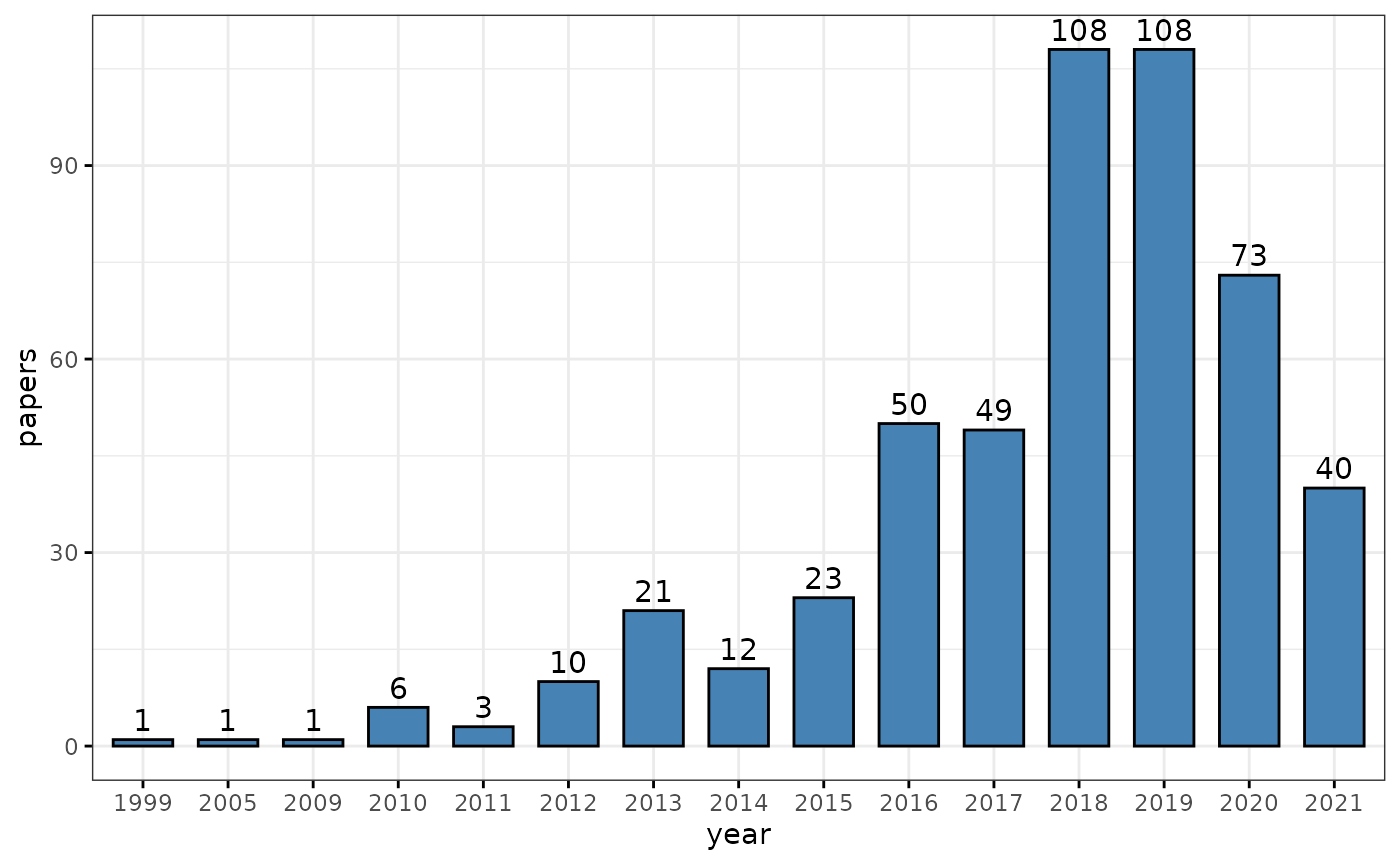
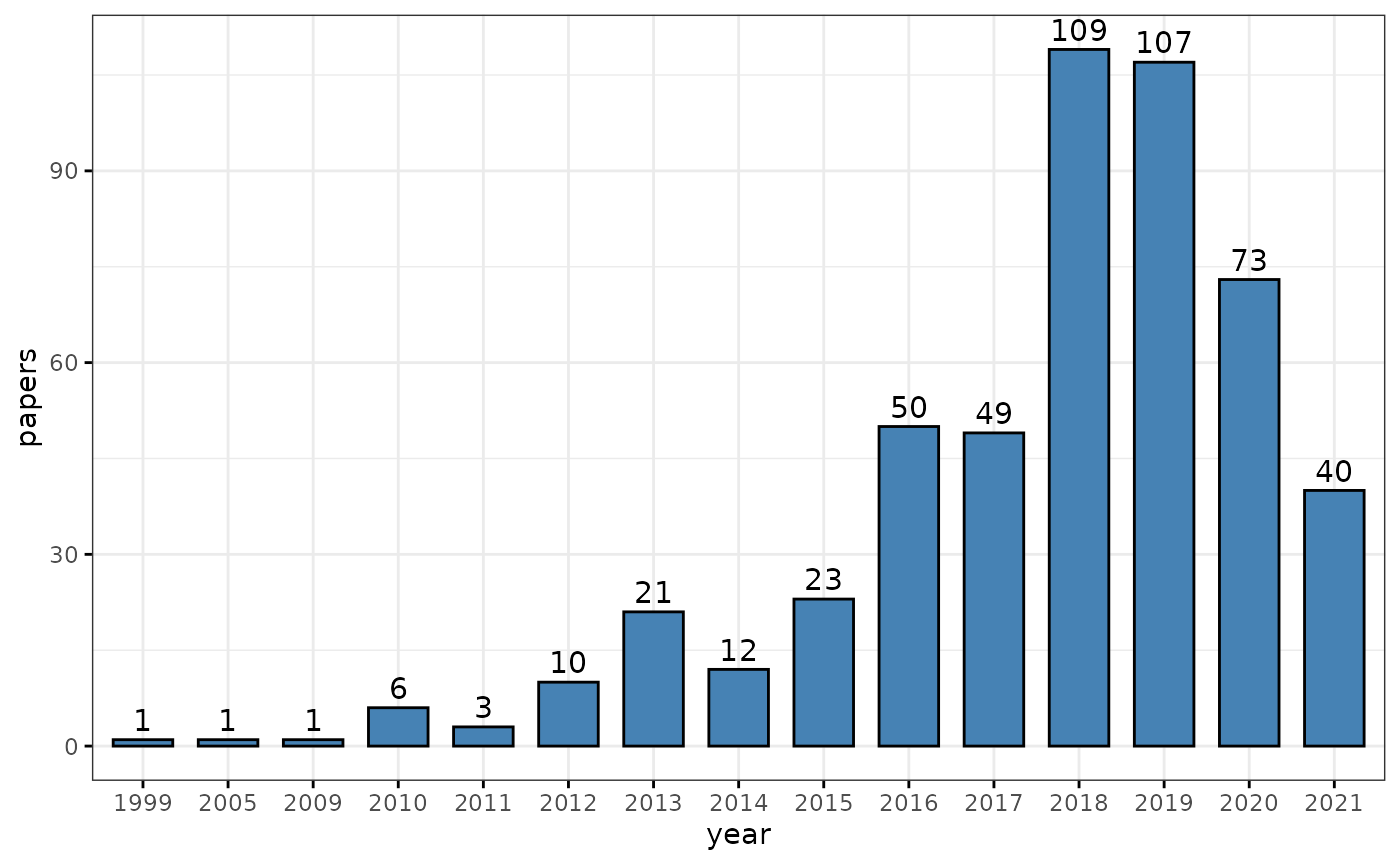
Deploying to gh-pages from  @ 07abf895835f37a3577330366b99f1d6fca4c2dd 🚀

diff --git a/articles/BugSigDBStats.html b/articles/BugSigDBStats.html
@@ -63,7 +63,7 @@
     <div class="page-header toc-ignore">
       <h1 data-toc-skip></h1>
             
-            <h4 class="date">September 4, 2021</h4>
+            <h4 class="date">September 5, 2021</h4>
       
       <small class="dont-index">Source: <a href="https://github.com/waldronlab/BugSigDBStats/blob/master/vignettes/BugSigDBStats.Rmd"><code>vignettes/BugSigDBStats.Rmd</code></a></small>
       <div class="hidden name"><code>BugSigDBStats.Rmd</code></div>
@@ -86,7 +86,7 @@
 <p>Get bulk export from bugsigdb.org:</p>
 <div class="sourceCode" id="cb2"><pre class="downlit sourceCode r">
 <code class="sourceCode R"><span class="va">full.dat</span> <span class="op">&lt;-</span> <span class="fu">bugsigdbr</span><span class="fu">::</span><span class="fu"><a href="https://rdrr.io/pkg/bugsigdbr/man/importBugSigDB.html">importBugSigDB</a></span><span class="op">(</span><span class="op">)</span></code></pre></div>
-<pre><code>## Using cached version from 2021-09-04 05:06:21</code></pre>
+<pre><code>## Using cached version from 2021-09-05 05:06:36</code></pre>
 <div class="sourceCode" id="cb4"><pre class="downlit sourceCode r">
 <code class="sourceCode R"><span class="fu"><a href="https://rdrr.io/r/base/dim.html">dim</a></span><span class="op">(</span><span class="va">full.dat</span><span class="op">)</span></code></pre></div>
 <pre><code>## [1] 2073   45</code></pre>
@@ -161,7 +161,7 @@
 <div class="sourceCode" id="cb17"><pre class="downlit sourceCode r">
 <code class="sourceCode R"><span class="fu"><a href="https://rdrr.io/r/base/sets.html">setdiff</a></span><span class="op">(</span><span class="va">pmids</span>, <span class="fu"><a href="https://rdrr.io/r/base/unique.html">unique</a></span><span class="op">(</span><span class="va">dat</span><span class="op">[</span>,<span class="st">"PMID"</span><span class="op">]</span><span class="op">)</span><span class="op">)</span></code></pre></div>
 <pre><code>##  [1] 32295867 32937864 32415070 32728349 33903709 33851179 33833065 33603076
-##  [9] 31917273 22986438 30714619 32978483 31887116 30057153</code></pre>
+##  [9] 31917273 22986438 30714619 32978483 31887116 29617710</code></pre>
 <p>Progress over time:</p>
 <div class="sourceCode" id="cb19"><pre class="downlit sourceCode r">
 <code class="sourceCode R"><span class="va">dat</span><span class="op">[</span>,<span class="st">"Curated date"</span><span class="op">]</span> <span class="op">&lt;-</span> <span class="fu"><a href="https://rdrr.io/r/base/character.html">as.character</a></span><span class="op">(</span><span class="fu">lubridate</span><span class="fu">::</span><span class="fu"><a href="http://lubridate.tidyverse.org/reference/ymd.html">dmy</a></span><span class="op">(</span><span class="va">dat</span><span class="op">[</span>,<span class="st">"Curated date"</span><span class="op">]</span><span class="op">)</span><span class="op">)</span>
@@ -200,7 +200,7 @@
 ##    Fatima,LGeistlinger,Rimsha,WikiWorks743 
 ##                                          1 
 ##               Fatima,Lwaldron,WikiWorks743 
-##                                          3 
+##                                          4 
 ##                       Fatima,Madhubani Dey 
 ##                                          2 
 ##                 Fatima,Rimsha,WikiWorks743 
@@ -208,7 +208,7 @@
 ##                              Fatima,Tislam 
 ##                                          3 
 ##                        Fatima,WikiWorks743 
-##                                         50 
+##                                         49 
 ##                             Fatima,Yu Wang 
 ##                                          6 
 ##                                       Gina 
@@ -226,7 +226,7 @@
 ##                     Lwaldron,Madhubani Dey 
 ##                                          1 
 ##                      Lwaldron,WikiWorks743 
-##                                         21 
+##                                         27 
 ##                              Madhubani Dey 
 ##                                         44 
 ##                                    Manuela 
@@ -240,7 +240,7 @@
 ##        WikiWorks,WikiWorks743,WikiWorks753 
 ##                                          1 
 ##                               WikiWorks743 
-##                                       1542 
+##                                       1536 
 ##                  WikiWorks743,WikiWorks753 
 ##                                          1</code></pre>
 <div id="distances-between-signatures" class="section level2">
